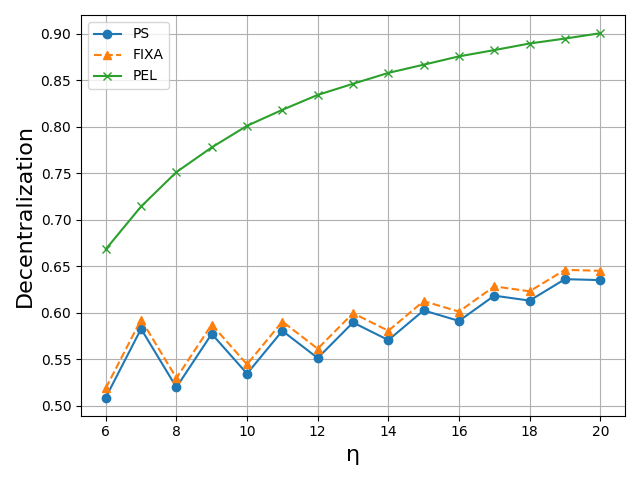
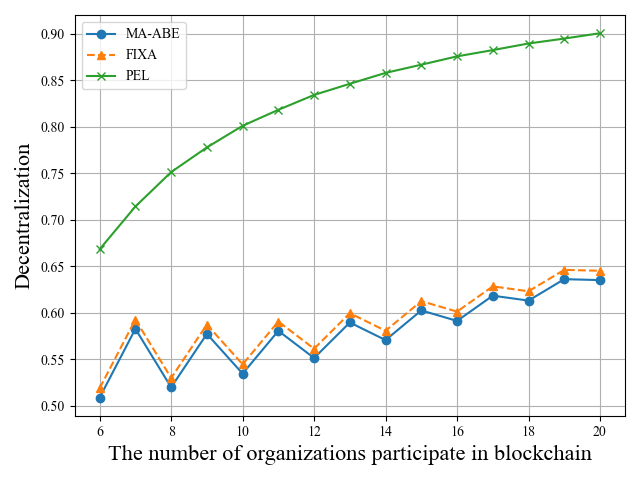
add pbft for decentralization analysis

diff --git a/01.abe-blockchain/abe-blockchain/result-2-decentralization.py b/01.abe-blockchain/abe-blockchain/result-2-decentralization.py
@@ -20,6 +20,8 @@ pels3 = [0.502230, 0.575212, 0.626672, 0.669610, 0.701338, 0.729681, 0.751115, 0
 pels4 = [0.343232, 0.434285, 0.507424, 0.559999, 0.605939, 0.640000, 0.671616, 0.695384, 0.718528, 0.736000, 0.753712, 0.767059, 0.781077, 0.791579, 0.802970]
 pels5 = [0.181289, 0.301482, 0.385967, 0.456708, 0.508773, 0.555489, 0.590644, 0.623875, 0.649124, 0.674025, 0.692983, 0.712375, 0.727096, 0.742651, 0.754387]
 
+ps_pbft = [0.500000, 0.571429, 0.500000, 0.555556, 0.500000, 0.545455, 0.500000, 0.538462, 0.500000, 0.533333, 0.500000, 0.529412, 0.500000, 0.526316, 0.500000]
+fixa_pbft = [0.51, 0.581429, 0.51, 0.565556, 0.51, 0.555455, 0.51, 0.548462, 0.51, 0.543333, 0.51, 0.539412, 0.51, 0.536316, 0.51]
 
 fig, axes = plt.subplots()
 
@@ -30,8 +32,10 @@ csXYLabelFont = {'fontproperties': xylabelFont}
 axesFont = font_manager.FontProperties(family='Times New Roman')
 csAxesFont = {'fontproperties': axesFont}
 
-axes.plot(x, ps, marker="o", label="MA-ABE")
-axes.plot(x, fixa, marker="^", label="FIXA", linestyle="--")
+axes.plot(x, ps, marker="o", label="MA-ABE PoS")
+axes.plot(x, ps_pbft, marker="D", label="MA-ABE PBFT")
+axes.plot(x, fixa, marker="^", label="FIXA PoS", linestyle="--")
+axes.plot(x, fixa_pbft, marker="*", label="FIXA PBFT", linestyle="--")
 # axes.plot(x, csl, marker="s", label="CSL")
 # axes.plot(x, pels1, marker="x", label="PEL s1")
 axes.plot(x, pels2, marker="x", label="PEL")

diff --git a/01.abe-blockchain/abe-blockchain/abe-blockchain-exhaustive.py b/01.abe-blockchain/abe-blockchain/abe-blockchain-exhaustive.py
@@ -46,8 +46,8 @@ def decentralization(eta, varphi, alpha, Upsilon, Theta, sigma):
 
     chi = []
     for i in range(eta):
-        chi.append(Theta[i] * Upsilon[i] / (varphi ** (alpha / eta)) * xi[i])
-        # chi.append(Theta[i] * Upsilon[i] * xi[i])
+        # chi.append(Theta[i] * Upsilon[i] / (varphi ** (alpha / eta)) * xi[i])
+        chi.append(Theta[i] * Upsilon[i] / (varphi ** (alpha / eta)))  # for pbft
 
     gini = Gini(chi)
     return gini
@@ -264,11 +264,11 @@ if __name__ == "__main__":
 
     # Here starts decentralization:
     # decentralization_ps()
-    # decentralization_fixa()
+    decentralization_fixa()
     # decentralization_csl()
     # decentralization_pels1()
     # decentralization_pels2()
     # decentralization_pels3()
     # decentralization_pels4()
-    decentralization_pels5()
+    # decentralization_pels5()
 
